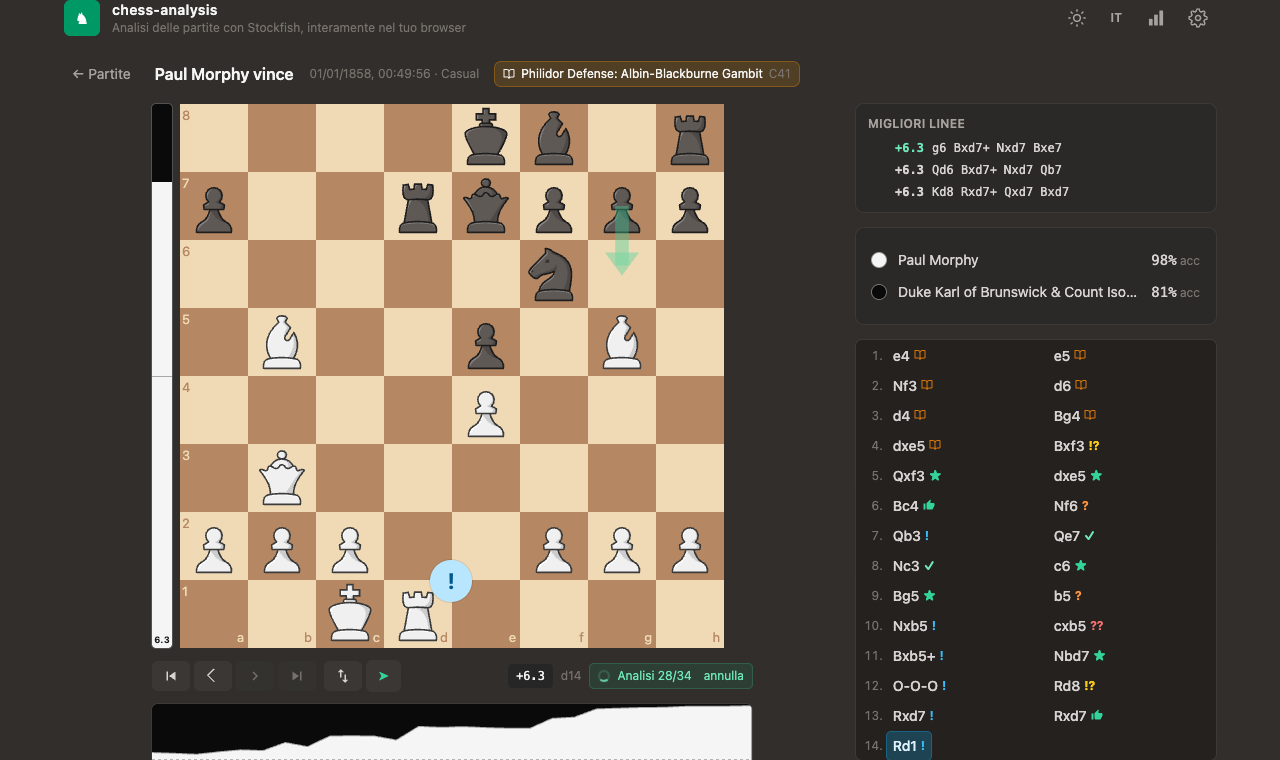
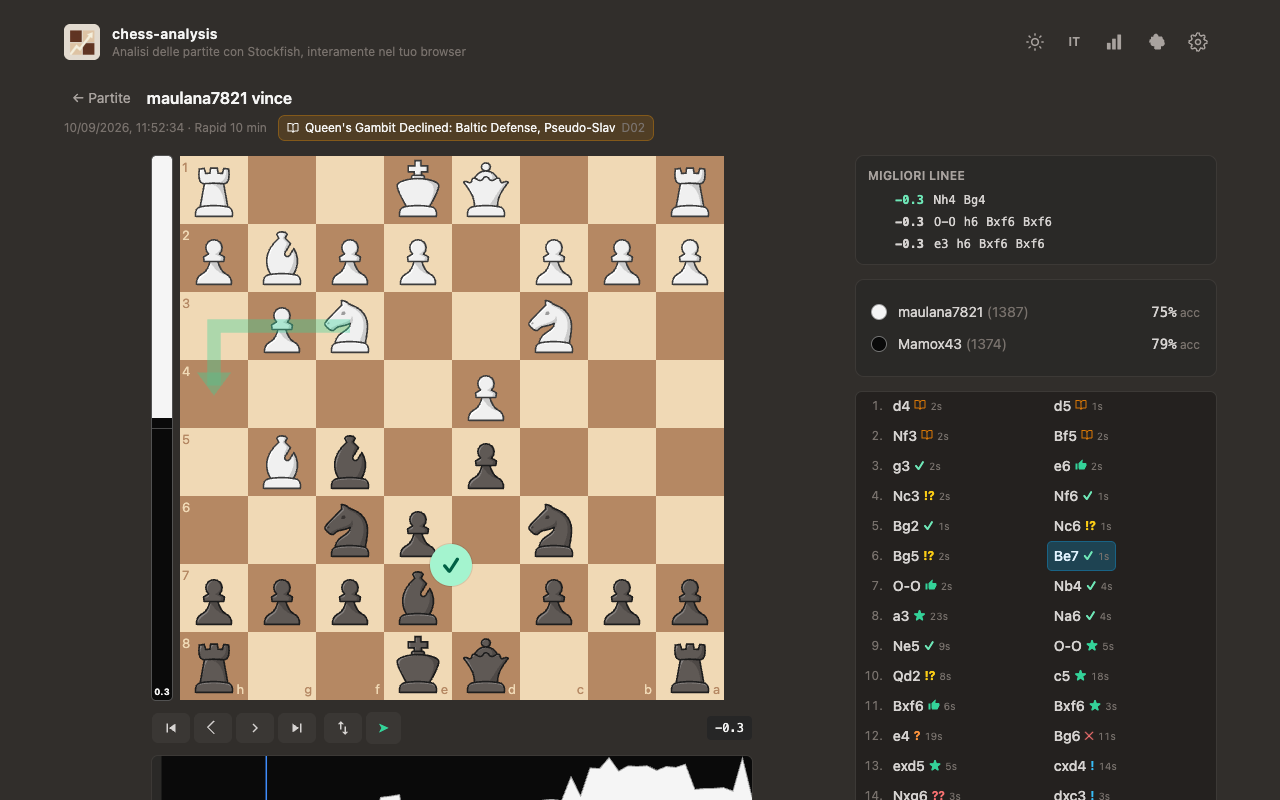
docs(readme): refresh + new screenshots (sync main)

diff --git a/README.md b/README.md
@@ -9,18 +9,23 @@
 [![platforms: linux amd64 / arm64](https://img.shields.io/badge/platforms-linux%20amd64%20%7C%20arm64-64748b)](./docs/DEPLOYMENT.md)
 
 **Game review, entirely in your browser.** Add a chess.com player (track as
-many as you like), and Stockfish 18 (WASM) analyses every one of their
-last-30-days games on your device:
-per-move classification (`!!` `!` `?` `??` and friends), eval bar, advantage
-graph, top-3 engine lines, accuracy, and branching - drag any legal move off
-the mainline and it's evaluated immediately, with "Back to game" to return.
-No server computation, no API keys.
+many as you like) and Stockfish 18 (WASM) analyses their last-30-days games
+on your device: per-move classification (`!!` `!` `?` `??` and friends),
+eval bar, advantage graph, top-3 engine lines (clickable), thinking time for
+every move, accuracy, and branching - drag any legal move off the mainline and
+it's evaluated immediately, with "Back to game" to return. Missed wins and
+mates are distilled into **tactics puzzles** validated by the engine. No
+server computation, no API keys.
 
-| Games | Review |
+| Players | Games |
 |---|---|
-| <img src="images/list-dark.png" width="480"> | <img src="images/review-dark.png" width="480"> |
-| **Stats** | **Light mode** |
-| <img src="images/stats-dark.png" width="480"> | <img src="images/review-light.png" width="480"> |
+| <img src="images/players-dark.png" width="480"> | <img src="images/list-dark.png" width="480"> |
+| **Review** | **Stats** |
+| <img src="images/review-dark.png" width="480"> | <img src="images/stats-dark.png" width="480"> |
+| **Puzzles** | **Light mode** |
+| <img src="images/puzzles-dark.png" width="480"> | <img src="images/review-light.png" width="480"> |
+| **Review · mobile** | **Puzzle · mobile** |
+| <img src="images/mobile-review-dark.png" width="240"> | <img src="images/mobile-puzzles-dark.png" width="240"> |
 
 ## Features
 
@@ -35,6 +40,8 @@ No server computation, no API keys.
 - 📊 Per-player accuracy (expected-loss model, rating-scaled) and the
   engine's top-3 lines for every position
 - 🔀 Branching: explore any off-mainline line, evaluated on the fly
+- ⏱ Thinking time on every move, read from the chess.com clock data and
+  shown next to each move (under it on mobile)
 - 📈 Stats view: resumable 30-day full-analysis run; win-probability curves
   (Stockfish's own WDL model) with the decisive move marked, a loss autopsy
   where every row jumps straight to the move that decided the game, a
@@ -44,10 +51,12 @@ No server computation, no API keys.
 - 🖱 Every chart is interactive: exact values on hover, click to jump into
   the review at that move; engine best lines are clickable - tap a move to
   replay the line as an analysed branch
-- 🧩 Puzzles generated from your own analysed games (missed wins, missed
+- 🧩 Puzzles distilled from your own analysed games (missed wins, missed
   mates, punishment of your opponent's blunders) - engine-validated for a
-  unique sound solution, with difficulty tiers, a light-bulb hint
-  (piece highlight + countdown) and a jump back to the source game
+  unique sound solution, with difficulty tiers, a light-bulb hint (piece
+  highlight + 30s countdown, then the solution), wrong-move feedback and a
+  jump back to the source game; the hub tracks solved/unsolved and always
+  resumes where you left off
 - 📖 Opening recognition (Lichess CC0 dataset, 3,810 openings) with book
   moves marked on the board and in the move list
 - 🗄 Server-side SQLite (bun:sqlite): games and analyses shared across all
